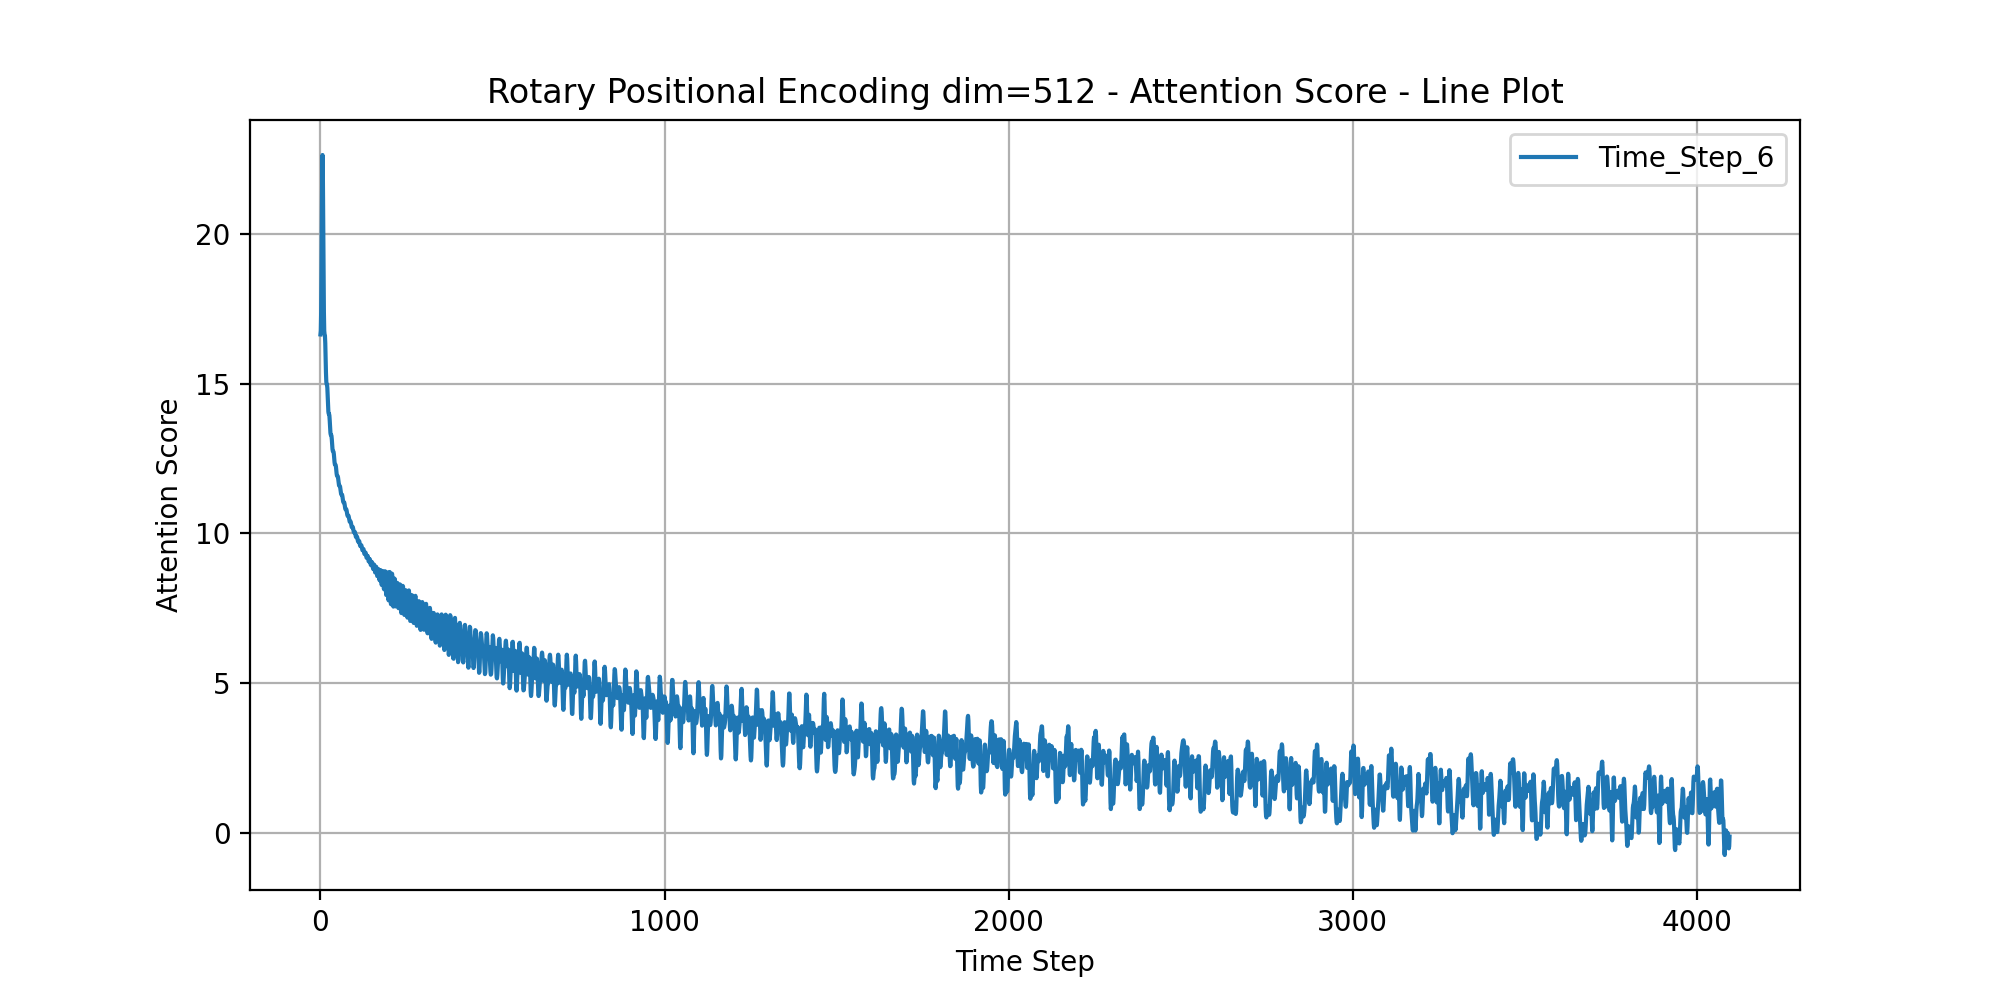
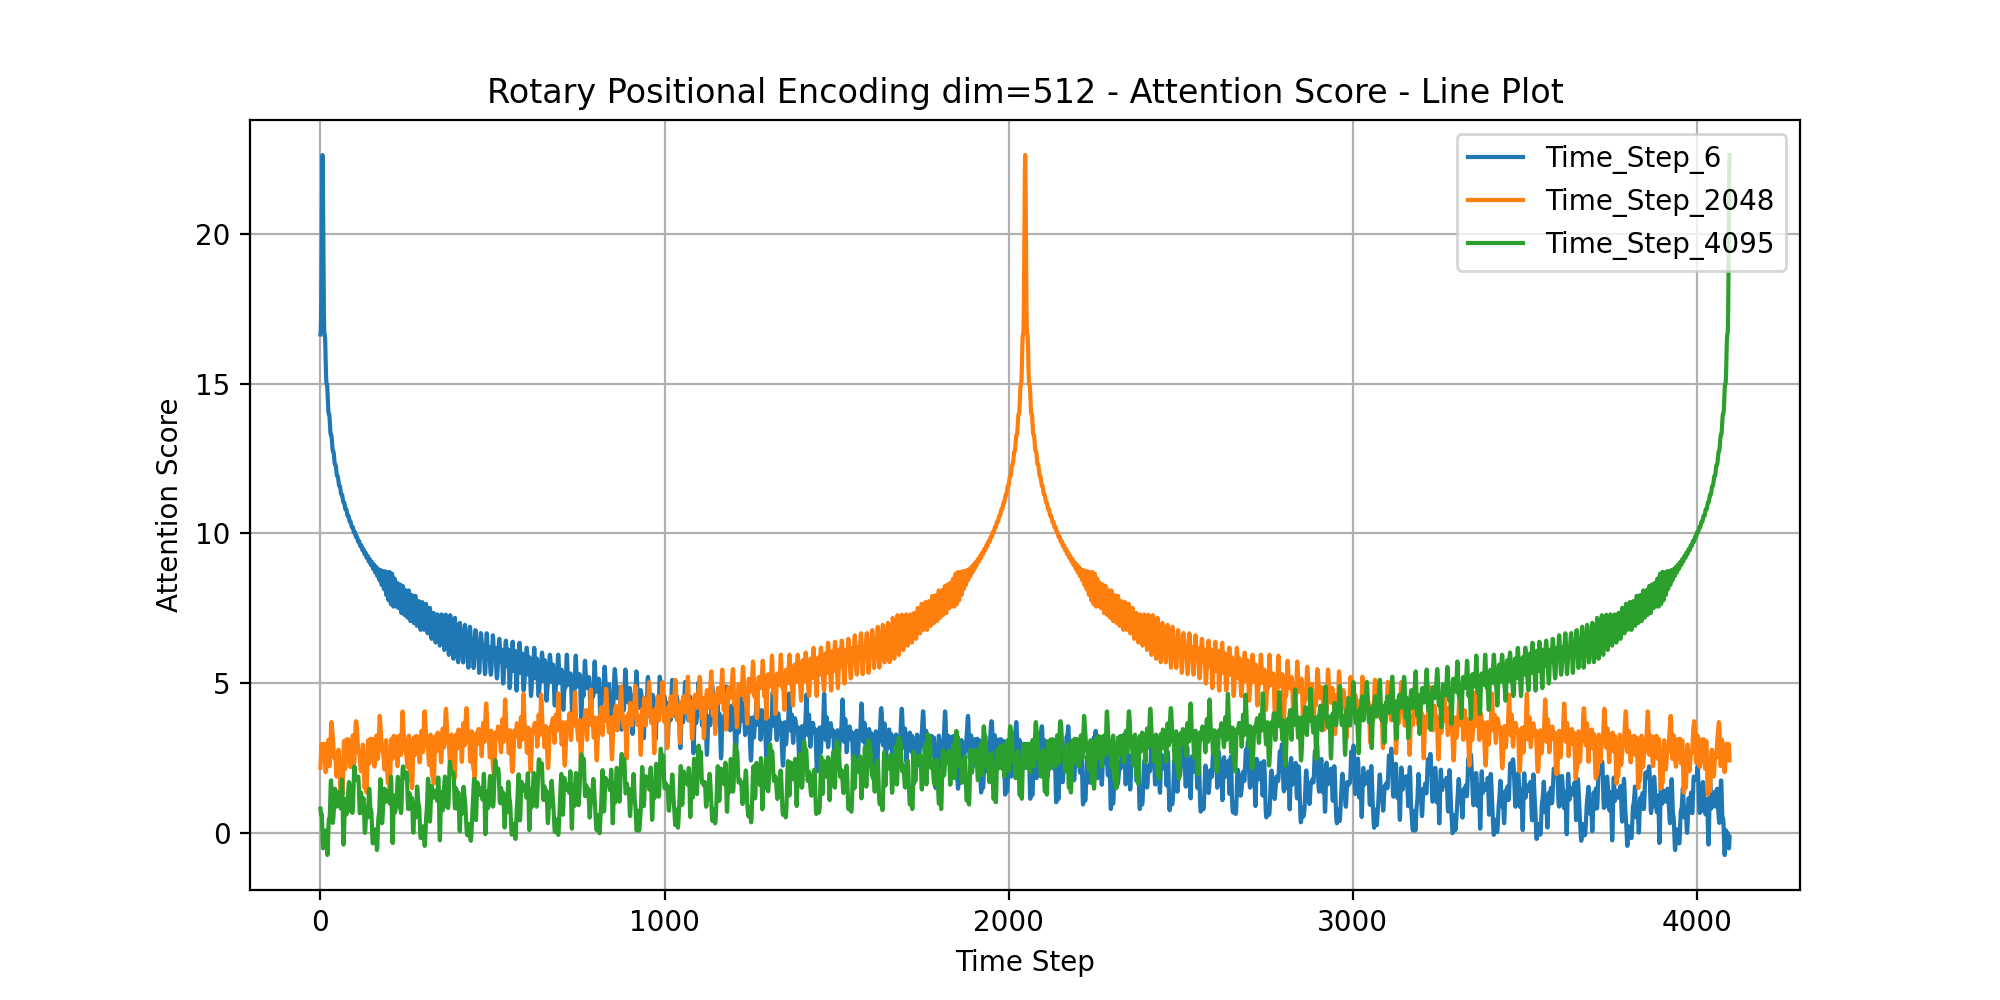
Enhance attention score visualization by adding additional time steps to plot

diff --git a/example2.py b/example2.py
@@ -14,8 +14,10 @@ def plot_attention(attention:torch.Tensor, title:str):
 
     plt.figure(figsize=(10, 5))
     plt.plot(attention[0, 6].data.numpy().T)
+    plt.plot(attention[0, 2048].data.numpy().T)
+    plt.plot(attention[0, 4095].data.numpy().T)
     # plt.legend([f'Time_Step_{i}' for i in range(4, 8)])
-    plt.legend(['Time_Step_6'])
+    plt.legend(['Time_Step_6', 'Time_Step_2048', 'Time_Step_4095'])
     plt.grid(True)
     plt.xlabel('Time Step')
     plt.ylabel('Attention Score')
@@ -36,6 +38,7 @@ device = torch.device('cuda' if torch.cuda.is_available() else 'cpu')
 
 sinpe = SinusoidalPositionalEncoding(D, 2 * T).to(device)
 x = torch.zeros(B, T, D).to(device)
+# x1 = torch.randn(B, T, D).to(device)
 x = sinpe(x)
 attention = attention_score(x)
 plot_attention(attention.cpu(), f"Sinusoidal Positional Encoding dim={D}")
